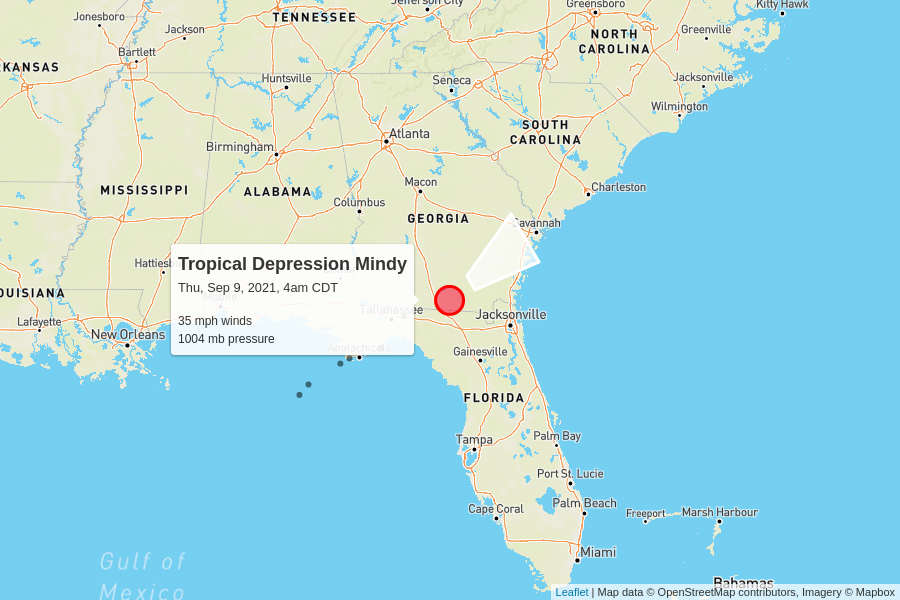
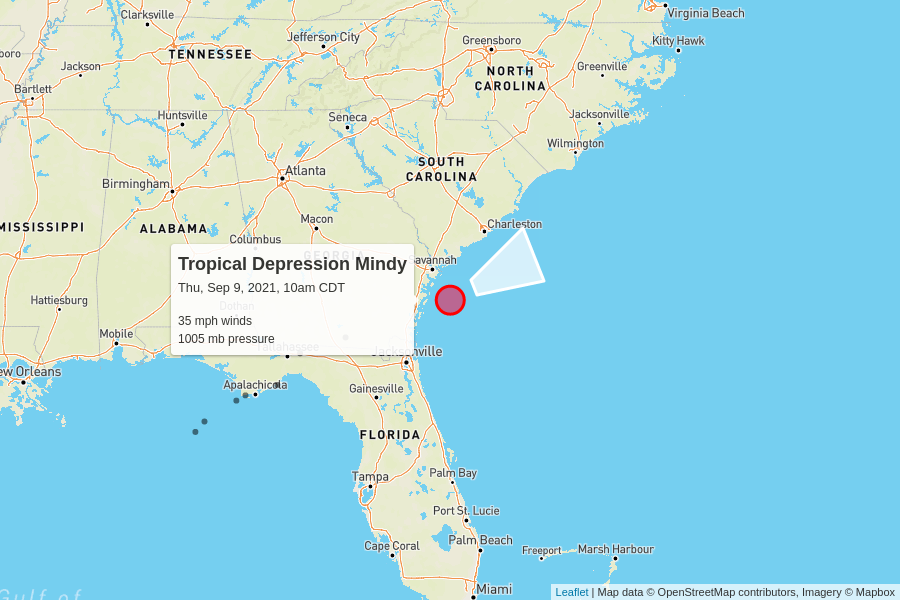
automatic update

diff --git a/docs/index.html b/docs/index.html
@@ -97,10 +97,10 @@
 
     <table>
       <tr>
-        <td colspan="6" class="storm category-2">
+        <td colspan="6" class="storm category-1">
           <h2>
-            Hurricane Larry - Category 2
-            <p class="updated">last updated <span data-time>2021-09-09T12:00:00.000Z</span></p>
+            Hurricane Larry - Category 1
+            <p class="updated">last updated <span data-time>2021-09-09T15:00:00.000Z</span></p>
           </h2>
         </td>
       </tr>
@@ -115,12 +115,12 @@
       </tr>
       <tr>
         <td class="spacer"></td>
-        <td>100 mph</td>
-        <td>968 mb</td>
+        <td>90 mph</td>
+        <td>966 mb</td>
         <td>
           16 mph to the north-northwest
           <br/>
-          <span style="display: inline-block; font-size: 1.5em; transform: rotate(330deg);">↑</span>
+          <span style="display: inline-block; font-size: 1.5em; transform: rotate(340deg);">↑</span>
         </td>
         <td><a href="https://raw.githubusercontent.com/mgwalker/atlantic-hurricanes/main/data/csv/AL122021.csv">AL122021.csv</a></td>
         <td><a href="https://www.nhc.noaa.gov/archive/2021/LARRY.shtml?">NHC advisories</a></td>
@@ -144,7 +144,7 @@
         <td colspan="6" class="storm category-0">
           <h2>
             Tropical Depression Mindy
-            <p class="updated">last updated <span data-time>2021-09-09T09:00:00.000Z</span></p>
+            <p class="updated">last updated <span data-time>2021-09-09T15:00:00.000Z</span></p>
           </h2>
         </td>
       </tr>
@@ -160,11 +160,11 @@
       <tr>
         <td class="spacer"></td>
         <td>35 mph</td>
-        <td>1004 mb</td>
+        <td>1005 mb</td>
         <td>
-          20 mph to the northeast
+          21 mph to the east-northeast
           <br/>
-          <span style="display: inline-block; font-size: 1.5em; transform: rotate(55deg);">↑</span>
+          <span style="display: inline-block; font-size: 1.5em; transform: rotate(65deg);">↑</span>
         </td>
         <td><a href="https://raw.githubusercontent.com/mgwalker/atlantic-hurricanes/main/data/csv/AL132021.csv">AL132021.csv</a></td>
         <td><a href="https://www.nhc.noaa.gov/archive/2021/MINDY.shtml?">NHC advisories</a></td>
